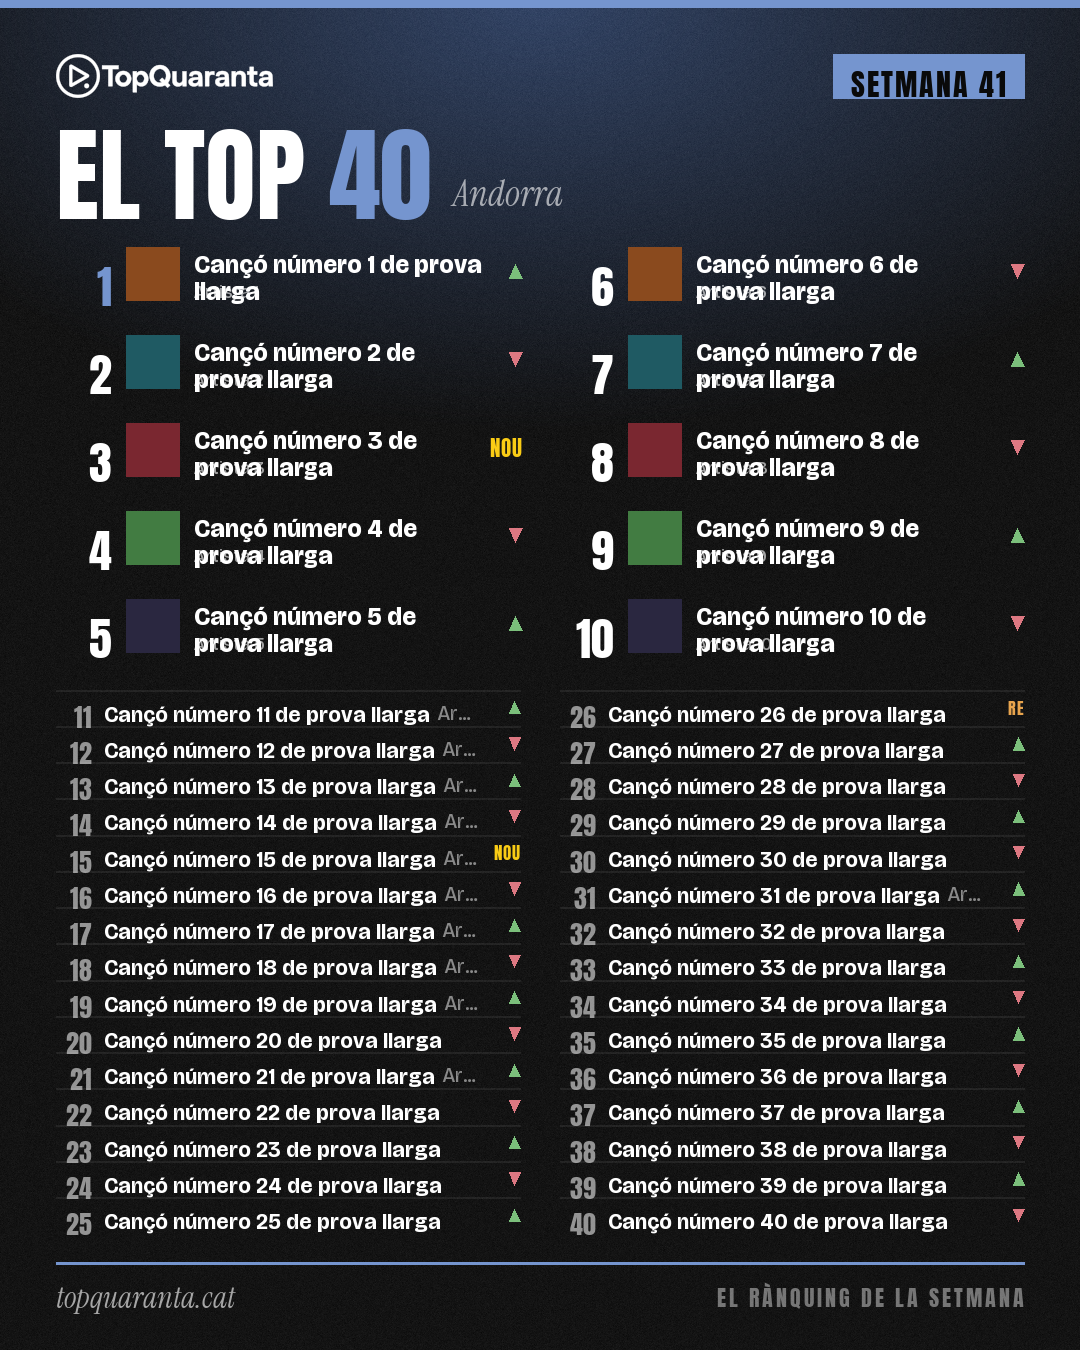
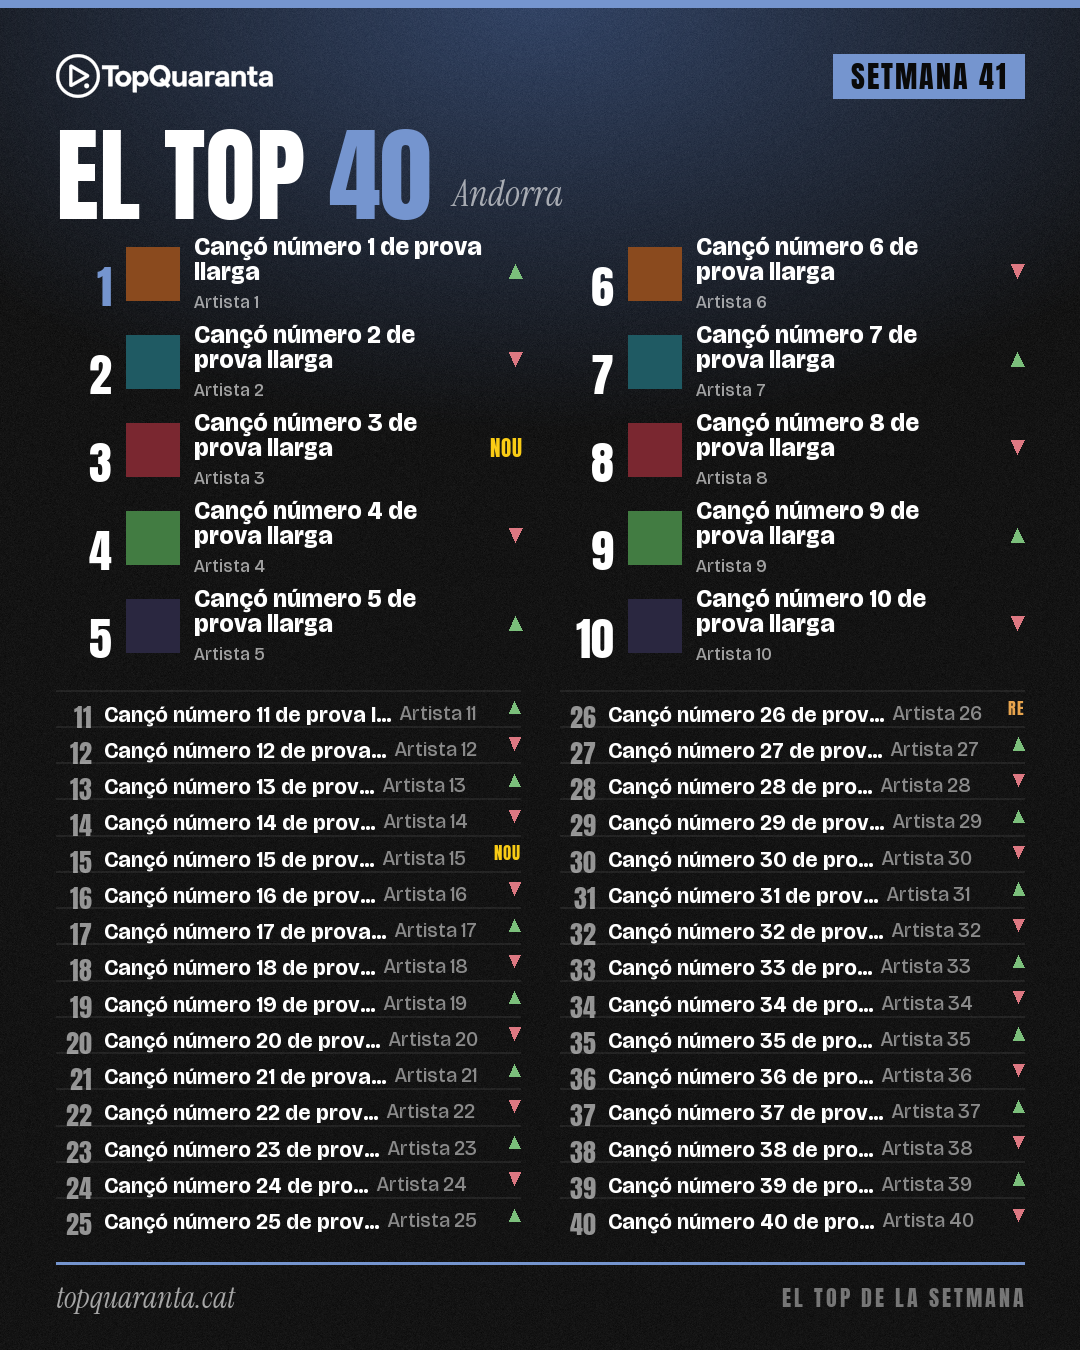
fix(social): TOP family review corrections (vocab + ink anchoring + no overlap)
Five measured fixes against the Claude Design artboards (±8px pins, no eyeballing):
1. Cover EL TOP / 40 sit tight (40 ink-top 632→570; measured design gap ≈ -25).
2. Vocab — "rànquing" is vetat: cover "el top sencer de la setmana", cartell
   footer "EL TOP DE LA SETMANA", list "el top de la setmana N".
3. List numerals ink-centred on the row (new render_core.draw_text(ink_center=)).
4. Cartell long titles: rich = 2-line clamp + artist stacked & centred; dense =
   title ellipsised but artist ALWAYS kept — no title↔artist overlap.
5. SETMANA pill text ink-centred in its box (cover + cartell).

New ink-anchored pins for all five; samples regenerated incl. a long-title
cartell (12). Feed/story/top pins green; full social suite 321 passed.

diff --git a/social/top_redesign.py b/social/top_redesign.py
@@ -119,12 +119,12 @@ def build_poster(entries: list[dict], setmana, variant: str = "ppcc") -> Image.I
     R.draw_text(
         img,
         px0 + sm["pad_x"],
-        sm["y"] + sm["pad_y"],
+        0,
         label,
         f_sm,
         F._col(F.tokens()["brand"]["ink"]),
         tracking=sm["ls"],
-        cap_top=None,
+        ink_center=sm["y"] + sm["h"] / 2,
         composite=True,
     )
 
@@ -174,24 +174,29 @@ def build_poster(entries: list[dict], setmana, variant: str = "ppcc") -> Image.I
         tw_avail = col_right - tx - 40
         ft = F._font("bricolage", rc["title"]["size"], rc["title"]["weight"])
         fa = F._font("bricolage", rc["artist"]["size"], rc["artist"]["weight"])
-        lines = R.wrap(d, e.get("canco_nom", ""), ft, tw_avail)[:2]
+        lh, art_size = rc["title"]["line_h"], rc["artist"]["size"]
+        # title clamps to 2 lines (ellipsise the 2nd if it overflows); the artist
+        # is ALWAYS its own line below — the title/artist block is vertically
+        # centred on the row centre (thumb centre), so they never overlap.
+        all_lines = R.wrap(d, e.get("canco_nom", ""), ft, tw_avail)
+        lines = all_lines[:2]
+        if len(all_lines) > 2 and lines:
+            lines[-1] = F._ellipsize(img, lines[-1] + " " + all_lines[2], ft, tw_avail)
+        row_center = y - 4 + rc["thumb"]["size"] / 2  # thumb centre
+        block_h = len(lines) * lh + 6 + art_size
+        top = row_center - block_h / 2
         for li, ln in enumerate(lines):
             R.draw_text(
-                img,
-                tx,
-                y + rc["title"]["dy"] + li * rc["title"]["line_h"],
-                ln,
-                ft,
-                white,
-                composite=True,
+                img, tx, top + li * lh, ln, ft, white, ink_top=True, composite=True
             )
         R.draw_text(
             img,
             tx,
-            y + rc["artist"]["dy"],
+            top + len(lines) * lh + 6,
             F._ellipsize(img, e.get("artista_nom", ""), fa, tw_avail),
             fa,
             (255, 255, 255, 153),
+            ink_top=True,
             composite=True,
         )
         k, n = _move_for(e)
@@ -231,20 +236,23 @@ def build_poster(entries: list[dict], setmana, variant: str = "ppcc") -> Image.I
         ft = F._font("bricolage", de["title"]["size"], de["title"]["weight"])
         fa = F._font("bricolage", de["artist"]["size"], de["artist"]["weight"])
         ty = y + de["title"]["dy"]
-        # title, then dimmed artist inline after a thin space (single line run).
-        title = F._ellipsize(img, e.get("canco_nom", ""), ft, tw_avail)
+        gap = 8
+        # Title + dimmed artist inline on one line. RESERVE room for the artist
+        # so a long title ellipsises but the artist STAYS visible (deviates from
+        # the design's whole-run ellipsis, which could drop the artist).
+        artist = e.get("artista_nom", "")
+        art_w = min(d.textlength(artist, font=fa), tw_avail * 0.5)
+        title = F._ellipsize(img, e.get("canco_nom", ""), ft, tw_avail - art_w - gap)
         title_w = R.draw_text(img, tx, ty, title, ft, white, composite=True)
-        rem = tw_avail - title_w - 8
-        if rem > 30 and title == e.get("canco_nom", ""):
-            R.draw_text(
-                img,
-                tx + title_w + 8,
-                ty,
-                F._ellipsize(img, e.get("artista_nom", ""), fa, rem),
-                fa,
-                F._col(de["artist"]["color"]),
-                composite=True,
-            )
+        R.draw_text(
+            img,
+            tx + title_w + gap,
+            ty,
+            F._ellipsize(img, artist, fa, tw_avail - title_w - gap),
+            fa,
+            F._col(de["artist"]["color"]),
+            composite=True,
+        )
         k, n = _move_for(e)
         R.draw_move(
             img,
@@ -520,15 +528,16 @@ def build_top_cover(setmana, variant: str = "ppcc") -> Image.Image:
         f_p,
         F._col(F.tokens()["brand"]["ink"]),
         tracking=pl["ls"],
-        cap_top=pl["cy"] - 14,
+        ink_center=pl["cy"],
     )
     R.draw_text(
         img,
         x0 + pw + gap,
-        pl["cy"] - cad["size"] / 2 - 6,
+        0,
         cad_text,
         f_c,
         F._col(cad["color"]),
+        ink_center=pl["cy"],
     )
     return F._finish(img)
 
@@ -549,7 +558,7 @@ def build_top_list(rows, current, total, setmana, variant: str = "ppcc") -> Imag
     R.draw_text(img, et["x"] + elw, et["y"], rng, f_h, acc)
     sub = H_["subtitle"]
     wk = _wk(setmana)
-    sub_t = f"{name} · setmana {wk}" if name else f"el rànquing de la setmana {wk}"
+    sub_t = f"{name} · setmana {wk}" if name else f"el top de la setmana {wk}"
     R.draw_text(
         img,
         sub["x"],
@@ -581,14 +590,13 @@ def build_top_list(rows, current, total, setmana, variant: str = "ppcc") -> Imag
         R.draw_text(
             img,
             nm["x"] + nm["w"] / 2,
-            y + rw["h"] / 2,
+            0,
             str(e.get("posicio", i + 1)),
             f_n,
             acc if is1 else white,
             align="center",
-            cap_top=None,
+            ink_center=y + rw["h"] / 2,
             composite=True,
-            ink_top=False,
         )
         tx = rw["thumb"]["x"]
         if chip_on:

diff --git a/social/tests/test_top_redesign.py b/social/tests/test_top_redesign.py
@@ -89,8 +89,8 @@ def test_top_cover_pins(fake_cover):
     # big yellow "40" mid-canvas
     sl = slice(300, 780)
     yellow = ((R[:, sl] > 190) & (G[:, sl] > 140) & (B[:, sl] < 110)).sum(1)
-    top = next(r for r in range(560, 1000) if yellow[r] > 80)
-    assert abs(top - 635) <= 20, top
+    top = next(r for r in range(540, 1000) if yellow[r] > 80)
+    assert abs(top - 570) <= TOL, top
 
 
 def test_top_list_one_highlighted_and_rows(fake_cover):
@@ -122,3 +122,72 @@ def test_mosaic_footer_clear(fake_cover):
     # footer rule (yellow) present near y≈1240
     yellow = ((R[1235:1245] > 190) & (G[1235:1245] > 140) & (B[1235:1245] < 110)).sum()
     assert yellow > 300, yellow
+
+
+# ── fix pins (2026-06-12): ink-anchored, ±8 px against the artboard ──
+
+
+def _ink_rows(img, mask, x0, x1, y0, y1, thr=6):
+    R, G, B = _chan(img)
+    m = mask(R, G, B)[:, x0:x1]
+    rr = [r for r in range(y0, y1) if m[r].sum() > thr]
+    return (rr[0], rr[-1]) if rr else None
+
+
+def _yellow(R, G, B):
+    return (R > 190) & (G > 140) & (B < 110)
+
+
+def _white(R, G, B):
+    return (R > 225) & (G > 225) & (B > 225)
+
+
+def _dark(R, G, B):
+    return (R < 60) & (G < 60) & (B < 60)
+
+
+def test_cover_eltop_forty_gap(fake_cover):
+    """'EL TOP' and '40' sit tight (design ink gap ≈ -25; the '40' ink-top
+    rises into EL TOP's bottom). Guards the #1 regression."""
+    img = top_redesign.build_top_cover(SET, "ppcc")
+    w = _ink_rows(img, _white, 360, 720, 400, 620)
+    y = _ink_rows(img, _yellow, 360, 720, 560, 900)
+    assert abs((y[0] - w[1]) - (-25)) <= TOL, (w, y)
+
+
+def test_top_pills_ink_centred(fake_cover):
+    """The SETMANA pill text is vertically ink-centred in its box (cover + cartell)."""
+    cov = top_redesign.build_top_cover(SET, "ppcc")
+    t = _ink_rows(cov, _dark, 330, 560, 1190, 1280)
+    assert abs((t[0] + t[1]) / 2 - 1234) <= TOL, t  # pill cy=1234
+    car = top_redesign.build_poster(_entries(40), SET, "ppcc")
+    t2 = _ink_rows(car, _dark, 835, 1010, 48, 104)
+    assert abs((t2[0] + t2[1]) / 2 - 76) <= TOL, t2  # pill centre ≈76
+
+
+def test_list_numeral_centred_on_row(fake_cover):
+    """List numerals are ink-centred on the row (were dropping low). Row 1
+    centre ≈ 246."""
+    img = top_redesign.build_top_list(list(reversed(_entries(10))), 4, 4, SET, "ppcc")
+    n = _ink_rows(img, _white, 72, 140, 199, 293, thr=3)
+    assert abs((n[0] + n[1]) / 2 - 246) <= TOL, n
+
+
+def test_no_title_artist_overlap_long_titles(fake_cover):
+    """With very long titles, the artist stays visible and never overlaps the
+    title (rich: stacked; dense: reserved inline)."""
+    long = "Títol Extremadament Llarg Que No Cap De Cap Manera Possible"
+    e = _entries(40)
+    for i in (0, 1, 10, 11):
+        e[i]["canco_nom"] = long
+        e[i]["artista_nom"] = f"Artista Visible {i}"
+    img = top_redesign.build_poster(e, SET, "ppcc")
+    R, G, B = _chan(img)
+    # rich row 1: dimmed-white artist ink exists below the title block (its own
+    # band of lit pixels in the left column, distinct from the 2 title lines).
+    lit = ((R[:, 194:480] > 120)).sum(1)
+    bands = [r for r in range(245, 330) if lit[r] > 8]
+    assert bands, "rich row 1 text not rendered"
+    # the artist band (bottom) is separated from the title (no single solid block
+    # spanning the whole row → there is a gap row somewhere in the middle).
+    assert any(lit[r] <= 8 for r in range(bands[0], bands[-1])), "title/artist merged"

diff --git a/social/render_core.py b/social/render_core.py
@@ -81,6 +81,7 @@ def draw_text(
     tracking=0.0,
     cap_top=None,
     ink_top=False,
+    ink_center=None,
     glyphwise=None,
     composite=True,
 ) -> float:
@@ -88,6 +89,8 @@ def draw_text(
 
     Anchoring of `y`:
       * `cap_top` given → the glyph CAP-TOP ink (capital H) lands at `cap_top`.
+      * `ink_center` given → this text's INK is vertically centred on `ink_center`
+        (the ink bbox midpoint lands there — for numerals/pills inside a box).
       * `ink_top=True` → this text's bbox-top ink lands at `y`.
       * otherwise → `y` is the em-box top ('la').
     `align`: x is the left / centre / right edge. `tracking`: px after each glyph.
@@ -110,6 +113,9 @@ def draw_text(
         left = x
     if cap_top is not None:
         draw_y = cap_top - cap_offset(font)
+    elif ink_center is not None:
+        b = probe.textbbox((0, 0), text, font=font)
+        draw_y = ink_center - (b[1] + b[3]) / 2
     elif ink_top:
         draw_y = y - probe.textbbox((0, 0), text, font=font)[1]
     else:

diff --git a/social/top_design/render_samples.py b/social/top_design/render_samples.py
@@ -84,6 +84,14 @@ def main():
     ]
     TR.build_albums_mosaic(albums, SET).save(OUT / "09_mosaic_9.png")
     TR.build_albums_mosaic(albums[:3], SET).save(OUT / "10_mosaic_3.png")
+    # long titles: rich (2-line clamp) + dense (reserved inline) — artist always visible
+    el = entries(40)
+    long = "Títol Extremadament Llarg Que No Cap De Cap Manera Possible Avui"
+    for i in (0, 1, 10, 11, 12):
+        el[i]["canco_nom"] = long
+        el[i]["artista_nom"] = f"Artista Visible Amb Nom Llarg {i}"
+    TR.build_poster(el, SET, "ppcc").save(OUT / "12_cartell_titols_llargs.png")
+
     singles = [
         {
             "nom": f"Single {i}",

diff --git a/docs/architecture/social.md b/docs/architecture/social.md
@@ -289,6 +289,13 @@ Design "TOP" handoff). Four builders, all 1080×1350:
 - **`build_albums_mosaic`** — the new-albums **mosaic** (single image, Tuesday),
   up to 9 covers (CSS auto-row heights + vertical centring).
 
+**Vocabulary:** the TOP renders never use the word "rànquing" (vetat) — "el top
+sencer de la setmana", "EL TOP DE LA SETMANA", "el top de la setmana N".
+**Fix pins (2026-06-12):** ink-anchored ±8 px against the artboards — EL TOP/40
+gap, list numerals + SETMANA pill ink-centred (`render_core.draw_text(ink_center=)`),
+and no title↔artist overlap (rich = 2-line clamp + artist stacked & centred;
+dense = title ellipsised but artist always kept).
+
 **Movement** is one primitive: `render_core.draw_move` (up/down/new/re/eq;
 semantic colours, palette-independent). `parse_move` derives it from real data;
 re-entry ("RE") needs `posicio_anterior is None` AND a prior chart appearance —
